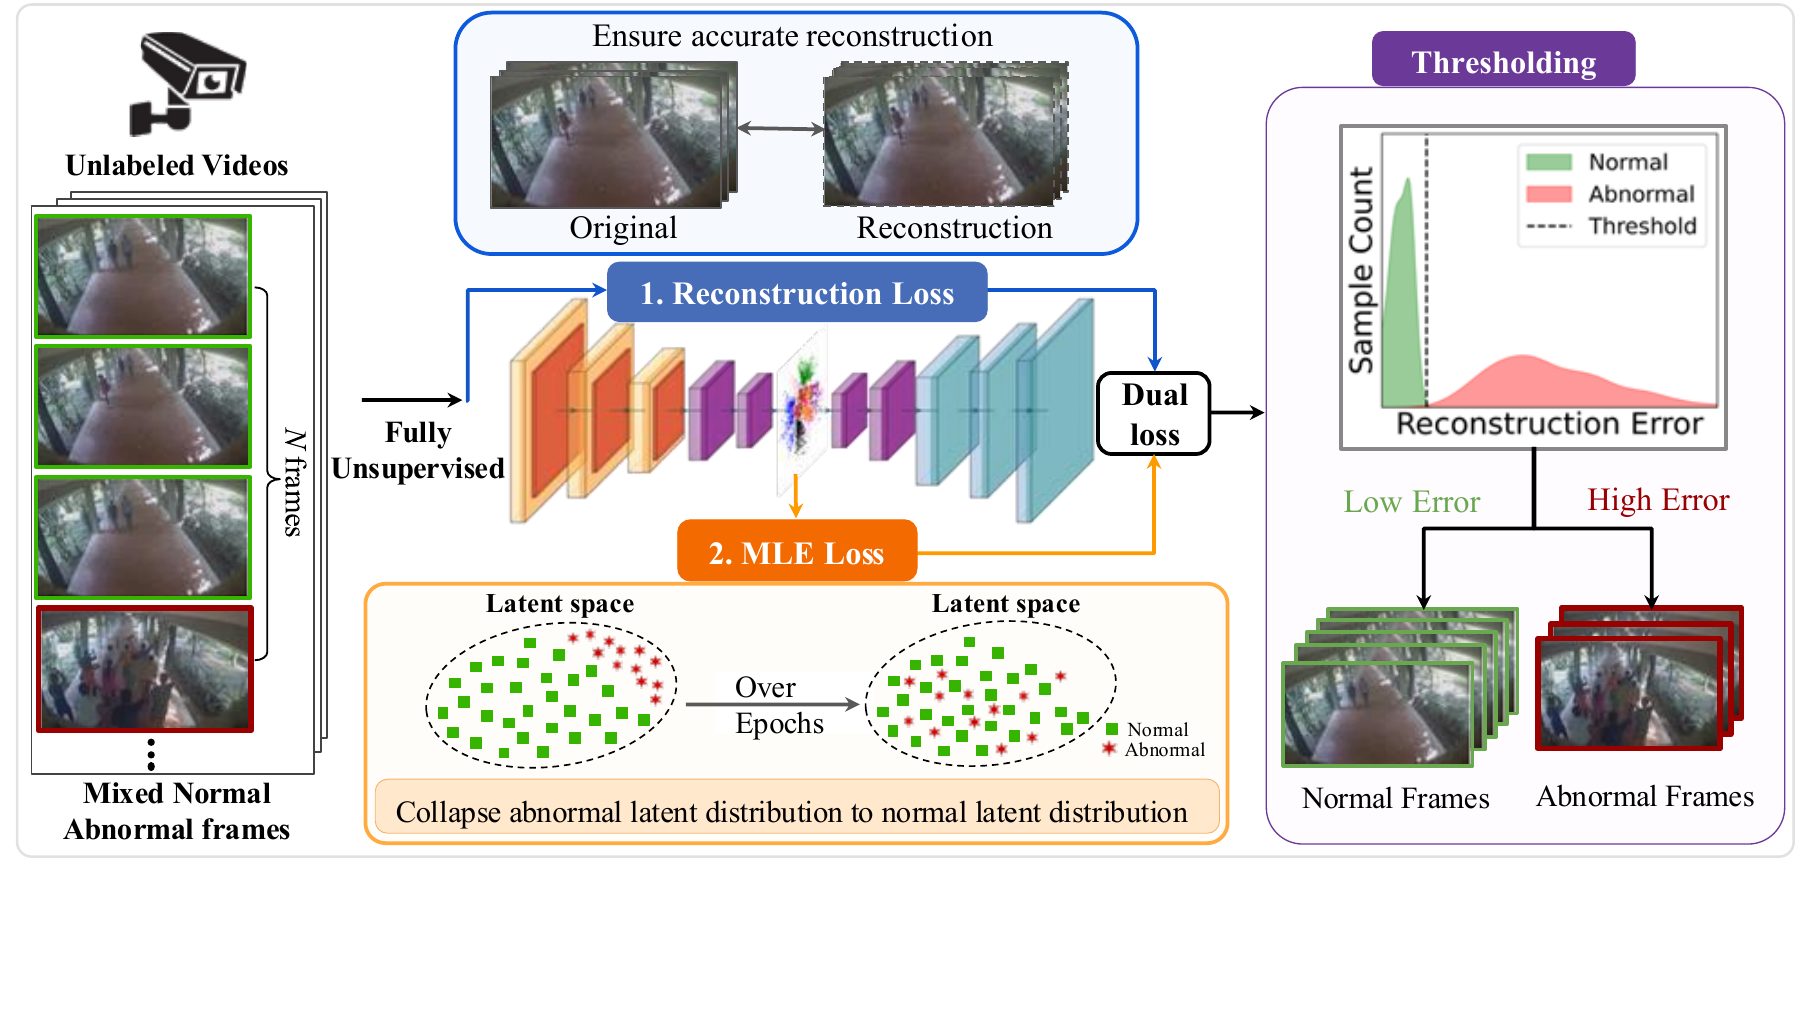
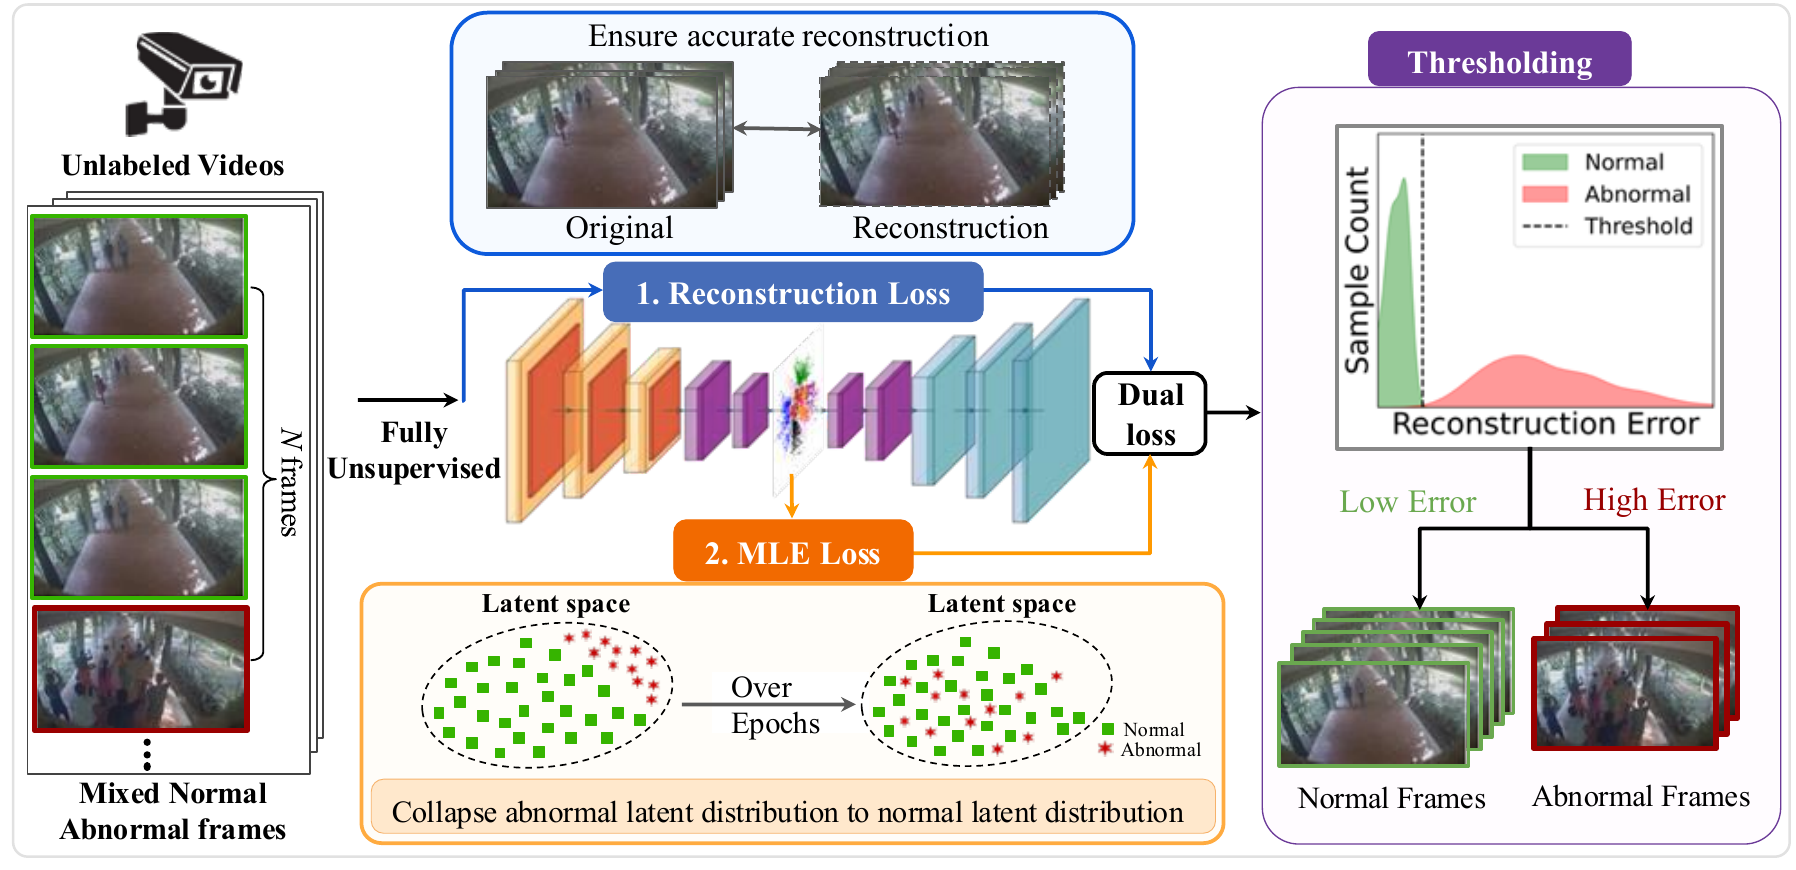
Crop anomaly detection method figure

diff --git a/app.js b/app.js
@@ -163,7 +163,7 @@ const projects = [
     category: "Video Anomaly Detection / WACV 2027 Submission",
     media: {
       type: "image",
-      src: "./assets/images/mle-uvad-method.png",
+      src: "./assets/images/mle-uvad-method.png?v=20260716-crop",
       label: "MLE-UVAD method overview"
     },
     summary: "Developed MLE-UVAD, a fully unsupervised video anomaly detection framework using a convolutional autoencoder with Minimal Latent Entropy loss. Submitted to WACV 2027 and currently under review.",